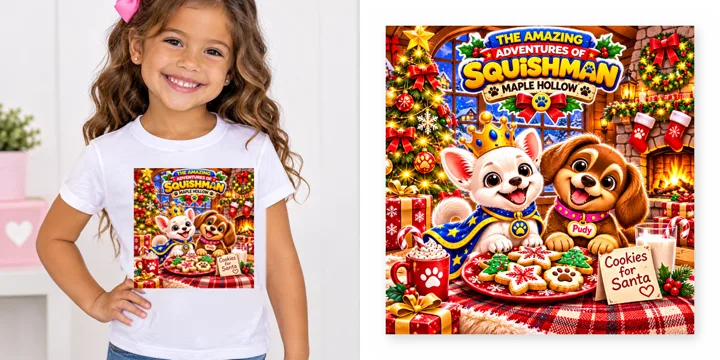
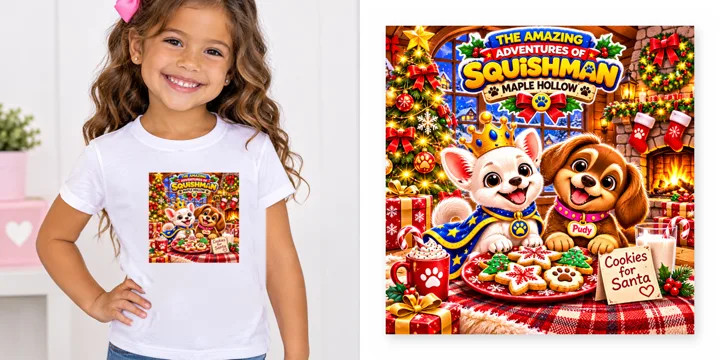
Girls' tee: smaller, chest-sized designs in photos and print
Designs shrink by a quarter so they no longer cover the model: 6.3 in wide on
youth sizes and 4.5 in on toddler sizes, centered. Photos regenerated to match,
and a leftover sliver of the original print beside her fingers is removed.

Claude-Session: https://claude.ai/code/session_01UWGUUWoCXNBhVHaKnEfjmD

Changed region(s): [[0.1833, 0.4583, 0.3667, 0.825]]

diff --git a/src/fulfillment/merch.ts b/src/fulfillment/merch.ts
@@ -1505,8 +1505,8 @@ MERCH.push({
 // Girls' tees: the owner's square girl-themed scene designs (public/assets/merch/print/girls/),
 // printed on white in every girls' size, toddler 2T–5/6T (Rabbit Skins 3321, Printful 489)
 // and youth S–XL (Bella + Canvas 3001Y). Printful downloads the art from squishman.com,
-// so no file-library upload is needed. 1254 px art prints about 8.4 in wide on youth sizes
-// (150 DPI) and 6 in on toddler sizes.
+// so no file-library upload is needed. Kept chest-sized (owner, 3 Nov 2026): about 6.3 in
+// wide on youth sizes and 4.5 in on toddler sizes, centered.
 const GIRLS_ART = "https://squishman.com/assets/merch/print/girls/";
 const GIRLS_DESIGNS: Array<[DesignKey, string, string, number]> = [
 	["GIRLS_BEACH", "Sunshine, Smiles & Puppy Pals! (beach day)", "girls-beach-day", 1254],
@@ -1519,9 +1519,10 @@ const GIRLS_DESIGNS: Array<[DesignKey, string, string, number]> = [
 ];
 const GIRLS_YOUTH = ["Youth S", "Youth M", "Youth L", "Youth XL"];
 const girlsPosition = (heightAtYouthWidth: number): Record<string, PrintfulPosition> => {
-	const youth = { ...YOUTH_AREA, width: 1254, height: heightAtYouthWidth, top: 100, left: 123 };
-	const tw = 900, th = Math.round((heightAtYouthWidth * tw) / 1254);
-	const toddler = { ...BABY_AREA, width: tw, height: th, top: 60, left: 75 };
+	const yw = 940, yh = Math.round((heightAtYouthWidth * yw) / 1254);
+	const youth = { ...YOUTH_AREA, width: yw, height: yh, top: 150, left: (YOUTH_AREA.area_width - yw) / 2 };
+	const tw = 676, th = Math.round((heightAtYouthWidth * tw) / 1254);
+	const toddler = { ...BABY_AREA, width: tw, height: th, top: 90, left: (BABY_AREA.area_width - tw) / 2 };
 	return Object.fromEntries([...TODDLER_SIZES.map((s) => [s, toddler]), ...GIRLS_YOUTH.map((s) => [s, youth])]);
 };
 MERCH.push({

diff --git a/test/fulfillment.test.ts b/test/fulfillment.test.ts
@@ -1480,7 +1480,7 @@ describe("merch orders → Printful", () => {
 				{
 					type: "front",
 					url: "https://squishman.com/assets/merch/print/girls/girls-beach-day.png",
-					position: { area_width: 1050, area_height: 1200, width: 900, height: 900, top: 60, left: 75 },
+					position: { area_width: 1050, area_height: 1200, width: 676, height: 676, top: 90, left: 187 },
 				},
 			],
 		});
@@ -1490,7 +1490,7 @@ describe("merch orders → Printful", () => {
 		expect(item.variant_id).toBe(9428);
 		expect(item.files[0]).toMatchObject({
 			url: "https://squishman.com/assets/merch/print/girls/girls-little-magic.png",
-			position: { area_width: 1500, area_height: 1800, width: 1254, height: 1325, top: 100, left: 123 },
+			position: { area_width: 1500, area_height: 1800, width: 940, height: 993, top: 150, left: 280 },
 		});
 		expect(item.files[0]).not.toHaveProperty("id");
 	});

diff --git a/cartoon-production/scripts/shirt_swap.py b/cartoon-production/scripts/shirt_swap.py
@@ -23,7 +23,7 @@ yy, xx = np.mgrid[0:H, 0:W]
 region = (xx >= 410) & (xx <= 885) & (yy >= 540) & (yy <= 1185)
 hue = hsv[..., 0]
 skin = (hue >= 4) & (hue <= 25) & (sat > 0.22) & (sat < 0.75) & (val > 0.40)
-hand = cv2.dilate((skin & (xx < 560) & (yy > 900)).astype(np.uint8), np.ones((9, 9), np.uint8)) > 0
+hand = cv2.dilate((skin & (xx < 538) & (yy > 925)).astype(np.uint8), np.ones((9, 9), np.uint8)) > 0
 ink = region & ~hand & ((sat > 0.10) | (val < 0.80))
 mask = cv2.dilate(ink.astype(np.uint8), cv2.getStructuringElement(cv2.MORPH_ELLIPSE, (15, 15)))
 mask = cv2.morphologyEx(mask, cv2.MORPH_CLOSE, cv2.getStructuringElement(cv2.MORPH_ELLIPSE, (31, 31))) > 0
@@ -58,7 +58,7 @@ target_w = TARGET_W
 scale = target_w / art.shape[1]
 art = cv2.resize(art, (target_w, int(art.shape[0] * scale)), interpolation=cv2.INTER_AREA).astype(np.float32) / 255
 ah, aw = art.shape[:2]
-cx, top = 646, 600                     # chest centre / top of print on this photo
+cx, top = 646, int(sys.argv[5]) if len(sys.argv) > 5 else 600  # chest centre / top of print on this photo
 x0, y0 = cx - aw // 2, top
 rgb, a = art[..., :3], art[..., 3:4]
 on_white = rgb * a + (1 - a)            # art as printed on a white shirt
